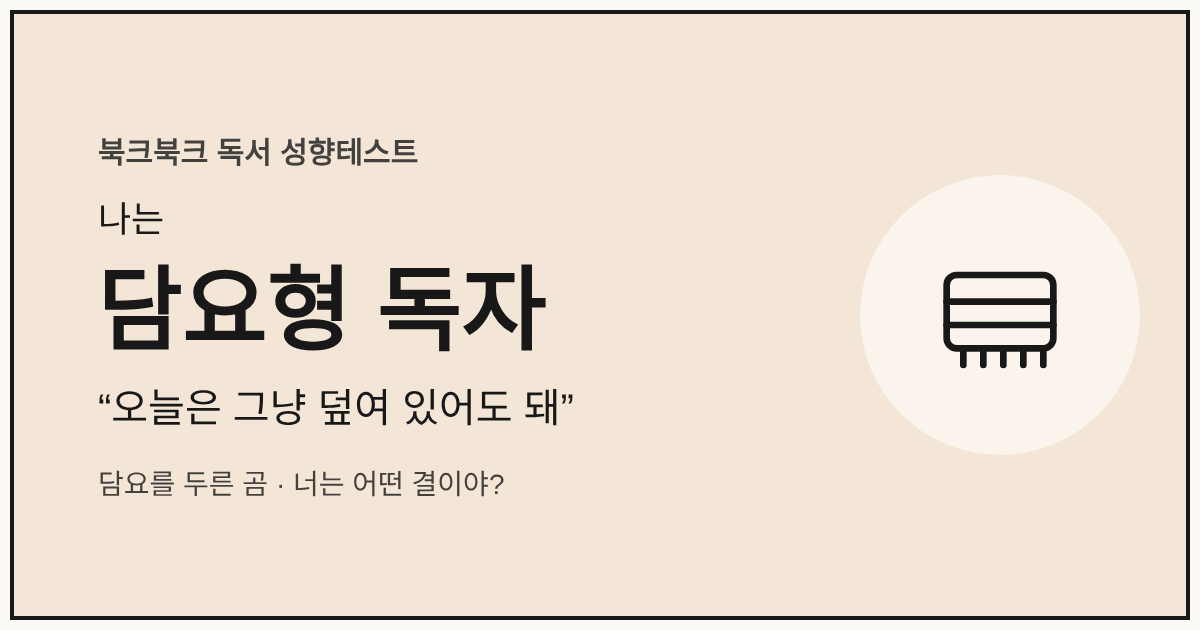
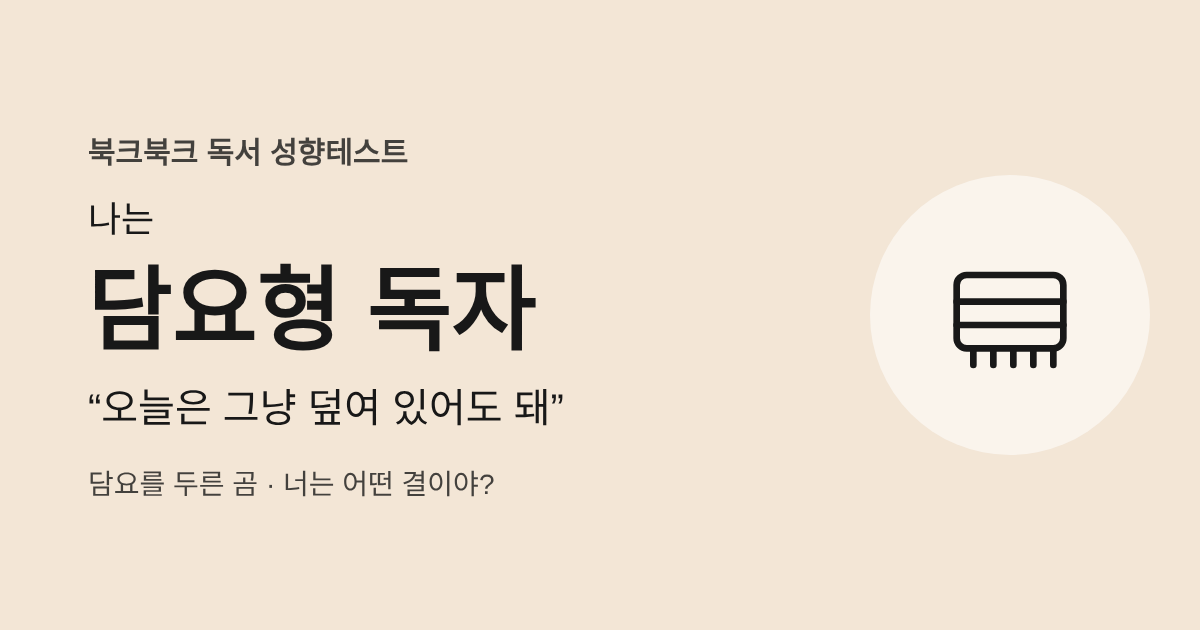
남은 검은 테두리 모두 제거 (결과 카드, 유형 상자, 매거진 머리, 참여 띠, 책 팝업, 공유 이미지)
Claude-Session: https://claude.ai/code/session_01BrEket9xqvNgvZyRRULrY5

diff --git a/index.html b/index.html
@@ -201,7 +201,7 @@ section + section { margin-top: 80px; }
 .home-shelf { display: grid; grid-template-columns: repeat(3, minmax(0, 1fr)); gap: 12px; }
 .home-shelf .spine { background: var(--card); border: 1px solid var(--line); padding: 18px; box-shadow: var(--shadow); }
 .spine .from { font-size: var(--s-1); color: var(--accent-text); font-weight: 500; margin-top: 6px; }
-.join-band { border-radius: 24px; background: var(--band2); color: var(--band-ink); border: 2px solid var(--ink); padding: 36px; display: flex; justify-content: space-between; gap: 24px; flex-wrap: wrap; align-items: center; }
+.join-band { border-radius: 24px; background: var(--band2); color: var(--band-ink); padding: 36px; display: flex; justify-content: space-between; gap: 24px; flex-wrap: wrap; align-items: center; }
 .join-band h2 { font-size: var(--s-5); margin-bottom: 8px; }
 .join-band p { opacity: .92; max-width: 32em; }
 .join-actions { display: flex; gap: 18px; flex-wrap: wrap; align-items: center; }
@@ -238,7 +238,7 @@ a.tcard:active { transform: translateY(-1px) scale(.98); }
 .issue-tabs { display: flex; gap: 8px; overflow-x: auto; scrollbar-width: none; margin-bottom: 20px; padding-bottom: 2px; }
 .issue-tabs::-webkit-scrollbar { display: none; }
 .issue-tabs .pill { white-space: nowrap; }
-.issue-head { border-radius: 20px; background: var(--band); color: var(--band-ink); border: 2px solid var(--ink); padding: 30px 32px; display: grid; gap: 10px; margin-bottom: 18px; }
+.issue-head { border-radius: 20px; background: var(--band); color: var(--band-ink); padding: 30px 32px; display: grid; gap: 10px; margin-bottom: 18px; }
 .issue-head .issue-meta { font-size: var(--s-1); font-weight: 500; opacity: .85; }
 .issue-head h2 { font-size: clamp(1.75rem, 4.4vw, 2.6rem); line-height: 1.3; }
 .issue-head p { max-width: 34em; opacity: .92; }
@@ -306,7 +306,7 @@ a.tcard:active { transform: translateY(-1px) scale(.98); }
 dialog.book { border: 0; padding: 0; border-radius: 20px; width: min(540px, calc(100vw - 32px)); max-height: calc(100dvh - 48px); background: var(--card); color: var(--ink); box-shadow: var(--shadow-lift); overflow: auto; }
 dialog.book[open] { animation: popIn .38s var(--ease); }
 dialog.book::backdrop { background: rgba(10, 14, 12, .5); backdrop-filter: blur(3px); -webkit-backdrop-filter: blur(3px); animation: fadeIn .3s ease; }
-.book-top { border-bottom: 2px solid var(--on-swatch); padding: 22px 64px 18px 24px; display: flex; gap: 14px; align-items: center; color: var(--on-swatch); }
+.book-top { padding: 22px 64px 18px 24px; display: flex; gap: 14px; align-items: center; color: var(--on-swatch); }
 .book-top .swatch { width: 52px; height: 52px; flex: none; border-radius: 50%; background: rgba(255,255,255,.55); display: grid; place-items: center; }
 .book-top .swatch svg { width: 28px; height: 28px; }
 .book-top h3 { font-size: var(--s-4); line-height: 1.3; }
@@ -355,7 +355,7 @@ dialog.book::backdrop { background: rgba(10, 14, 12, .5); backdrop-filter: blur(
 .intro-actions { display: flex; gap: 18px; align-items: center; flex-wrap: wrap; }
 button.link { background: none; border: 0; font: inherit; cursor: pointer; padding: 0; }
 .intro-sample { display: grid; gap: 12px; justify-items: center; }
-.sample-card { border: 2px solid var(--on-swatch); width: min(100%, 300px); aspect-ratio: 9 / 13; border-radius: 20px; padding: 24px; color: var(--on-swatch); display: grid; align-content: space-between; box-shadow: var(--shadow-lift); transform: rotate(3deg); transition: background-color .5s var(--ease); }
+.sample-card { width: min(100%, 300px); aspect-ratio: 9 / 13; border-radius: 20px; padding: 24px; color: var(--on-swatch); display: grid; align-content: space-between; box-shadow: var(--shadow-lift); transform: rotate(3deg); transition: background-color .5s var(--ease); }
 .sample-card > * { transition: opacity .25s; }
 .sample-card.swap > * { opacity: 0; }
 .sample-card .swatch { width: 60px; height: 60px; border-radius: 50%; background: rgba(255,255,255,.55); display: grid; place-items: center; }
@@ -385,7 +385,7 @@ button.link { background: none; border: 0; font: inherit; cursor: pointer; paddi
 /* result */
 .result { display: grid; grid-template-columns: minmax(0, 380px) minmax(0, 1fr); gap: 44px; align-items: start; }
 @media (max-width: 820px) { .result { grid-template-columns: 1fr; gap: 28px; } }
-.rcard { border: 2px solid var(--on-swatch); border-radius: 20px; padding: 28px; color: var(--on-swatch); display: grid; gap: 14px; aspect-ratio: 9 / 14; max-width: 100%; align-content: space-between; box-shadow: var(--shadow-lift); animation: settle 700ms var(--ease) both; }
+.rcard { border-radius: 20px; padding: 28px; color: var(--on-swatch); display: grid; gap: 14px; aspect-ratio: 9 / 14; max-width: 100%; align-content: space-between; box-shadow: var(--shadow-lift); animation: settle 700ms var(--ease) both; }
 .rcard .swatch { width: 84px; height: 84px; border-radius: 50%; background: rgba(255,255,255,.55); display: grid; place-items: center; }
 .rcard .swatch svg { width: 48px; height: 48px; animation: wiggle .8s var(--ease) .5s both; }
 .rcard .you { font-size: var(--s-2); }
@@ -484,7 +484,7 @@ dialog.book.art { width: min(660px, calc(100vw - 32px)); }
 @keyframes sheetUp { from { transform: translateY(100%); } to { transform: none; } }
 
 /* type page */
-.type-hero { border: 2px solid var(--on-swatch); border-radius: 24px; padding: 32px; color: var(--on-swatch); display: grid; grid-template-columns: auto minmax(0, 1fr); gap: 24px; align-items: center; margin-bottom: 28px; }
+.type-hero { border-radius: 24px; padding: 32px; color: var(--on-swatch); display: grid; grid-template-columns: auto minmax(0, 1fr); gap: 24px; align-items: center; margin-bottom: 28px; }
 .type-hero .swatch { width: 96px; height: 96px; border-radius: 50%; background: rgba(255,255,255,.55); display: grid; place-items: center; }
 .type-hero .swatch svg { width: 54px; height: 54px; }
 .type-hero h1 { font-size: clamp(2rem, 6vw, 3rem); line-height: 1.25; }
@@ -1434,7 +1434,6 @@ async function makeCardImage(t) {
   const c = document.createElement('canvas'); c.width = W; c.height = H;
   const ctx = c.getContext('2d');
   ctx.fillStyle = cssVar('--t-' + t.k) || '#F3E6D6'; ctx.fillRect(0, 0, W, H);
-  ctx.strokeStyle = INK; ctx.lineWidth = 8; ctx.beginPath(); if (ctx.roundRect) ctx.roundRect(40, 40, W - 80, H - 80, 48); else ctx.rect(40, 40, W - 80, H - 80); ctx.stroke();
   ctx.fillStyle = INK; ctx.textBaseline = 'alphabetic';
   ctx.font = '500 38px "Noto Sans KR", sans-serif'; ctx.fillText('북크북크 · 독서 성향테스트', X, 170);
   ctx.fillStyle = 'rgba(255,255,255,.55)'; ctx.beginPath(); ctx.arc(X + 120, 420, 120, 0, Math.PI * 2); ctx.fill();
